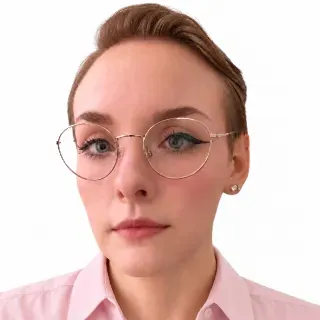
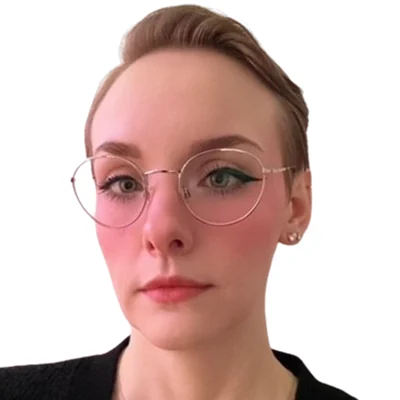
Team photos from nymbus-decks; no bonds in the Multi-Strategy approach copy [ci-logs]
- public/team: the 13 portraits shared with the nymbus-decks team seed, flattened on white, WebP,
  at most 400 px (Leana D'Imperio and Philippe Rivet are not in the decks seed: unchanged).
- /approach multi-strategy: lead "low correlation with stock markets in down months" (was "stocks
  and bonds"), diagram band "designed to offset part of losses" (was "bond losses"), EN and FR;
  unit test guards the Multi-Strategy copy against bonds; compliance-review row C5.

Claude-Session: https://claude.ai/code/session_01HkTsrCjFFbrE1zc4C2YzDT

diff --git a/src/components/site/pages/approach.copy.ts b/src/components/site/pages/approach.copy.ts
@@ -202,8 +202,8 @@ export const AP = {
     title: l("Several strategies,", "Plusieurs stratégies,"),
     accent: l("across asset classes", "dans plusieurs catégories d’actifs"),
     lead: l(
-      "A liquid alternative across asset classes, designed to have low correlation with stocks and bonds in down months.",
-      "Une solution alternative liquide, multi-actifs, conçue pour avoir une faible corrélation avec les actions et les obligations lors des mois de baisse.",
+      "A liquid alternative across asset classes, designed to have low correlation with stock markets in down months.",
+      "Une solution alternative liquide, multi-actifs, conçue pour avoir une faible corrélation avec les marchés boursiers lors des mois de baisse.",
     ),
     strategies: [
       l("Low volatility", "Faible volatilité"),
@@ -219,8 +219,8 @@ export const AP = {
       l("Commodities", "Matières premières"),
     ],
     overlay: l(
-      "Protective overlay · designed to offset part of bond losses",
-      "Superposition protectrice · conçue pour compenser une partie des pertes obligataires",
+      "Protective overlay · designed to offset part of losses",
+      "Superposition protectrice · conçue pour compenser une partie des pertes",
     ),
     strategiesK: l("Strategies", "Stratégies"),
     assetsK: l("Asset classes", "Catégories d’actifs"),

diff --git a/tests/unit/site/content-v3.test.ts b/tests/unit/site/content-v3.test.ts
@@ -184,12 +184,16 @@ test("approach: risk-first and multi-strategy sections keep low correlation as a
   assert.ok(!/uncorrelated|non corrélé/i.test(JSON.stringify(AP)), "no 'uncorrelated' as a fact");
   assert.match(
     AP.multi.lead.en,
-    /^A liquid alternative across asset classes, designed to have low correlation with stocks and bonds in down months\.$/,
+    /^A liquid alternative across asset classes, designed to have low correlation with stock markets in down months\.$/,
   );
   assert.ok(AP.multi.note.en.endsWith(OVERLAY_ADDS));
   assert.ok(AP.multi.note.fr.endsWith(OVERLAY_ADDS_FR));
   assert.match(AP.multi.note.en, /^Illustration only/);
   assert.equal(AP.multi.strategies.length, 4);
+  // owner 2026-10-16: the Multi-Strategy description (lead, diagram band, its "three ways" card) never mentions bonds
+  for (const part of [AP.multi.lead, AP.multi.overlay, AP.multi.offers[1].t, AP.multi.offers[1].d])
+    for (const lang of ["en", "fr"] as const)
+      assert.ok(!/bond|obligat/i.test(part[lang]), `multi-strategy copy mentions bonds: ${part[lang]}`);
 });
 
 test("solutions: three illustrative use cases; overlay ones carry the futures-exposure disclosure; no ranking claim in the copy", () => {

diff --git a/docs/compliance-review.md b/docs/compliance-review.md
@@ -502,6 +502,7 @@ Gabriel's requests of 2026-10-03. Rows replace earlier wording where they differ
 | C2 | **"Scientists, engineers and market veterans"** (EN) / « Des scientifiques, des développeurs et des vétérans des marchés » (FR: « ingénieur » is a protected title in Québec, so people are not called « ingénieurs »): home hero, about meta description, credentials band ("Scientists, engineers and market veterans" / « Scientifiques, développeurs et vétérans des marchés »), about intro, approach team section, careers line, and the **Science at scale band** (title + third card "Market veterans — Decades in fixed income and derivatives." / « Vétérans des marchés — Des décennies en revenu fixe et en dérivés. »; second card FR « Développeurs »). The band's animation and engine are unchanged; its fingerprint test notes "copy changed at Gabriel's request 2026-10-03". | Home, /team, /approach | EN "engineers" is approved by Gabriel; FR « développeurs ». |
 | C3 | **Tobacco-Free Finance Pledge**, worded as a firm-level signature (date unchanged, 2024): "A firm-level signature. The pledge, an initiative of Tobacco Free Portfolios hosted with UNEP FI, encourages signatories to consider tobacco-free policies across lending, insurance and investment." News body: "Nymbus signed the Tobacco-Free Finance Pledge, an initiative of Tobacco Free Portfolios hosted with UNEP FI. Signatories are encouraged to consider adopting tobacco-free finance policies across lending, insurance and investment." No firm-wide portfolio exclusion is claimed; ESG exclusions stay attributed to the Sustainable Enhanced Bonds Fund. No logo. **Source**: Ontario Teachers' Pension Plan, "Global leaders launch Tobacco-Free Finance Pledge" (2018), https://www.otpp.com/en-ca/about-us/news-and-insights/2018/global-leaders-launch-tobacco-free-finance-pledge/ | /sustainability, news | Resolves R1's open question as worded. |
 | C4 | **"Liquid alternative" approved for Multi-Strategy** (Gabriel, 2026-10-03; supersedes R4): approach lead "A liquid alternative across asset classes, designed to have low correlation with stocks and bonds in down months"; "Three ways" card "A liquid alternative, Alternative Multi-Strategy category" / « catégorie Multistratégies alternatives »; Multi-Strategy fund summary "A liquid alternative fund of systematic strategies…" and feature lead "Alternative Multi-Strategy category: distinct roles, diversified sources of return"; solutions "Liquid alternatives designed for low down-month correlation", advisors "A liquid alternative to diversify". **Inflation wording "over a full rate cycle" approved** (R3). | /approach, Multi-Strategy page, /solutions | Category name to match the fund's official CIFSC category. |
+| C5 | **No bonds in the Multi-Strategy description** (Gabriel, 2026-10-16): approach lead now "A liquid alternative across asset classes, designed to have low correlation with stock markets in down months" (FR « … avec les marchés boursiers lors des mois de baisse »); diagram band "Protective overlay · designed to offset part of losses" (FR « … une partie des pertes »). The overlay disclosure in the note is unchanged. | /approach | Is "stock markets" the comparison you want to state for the Multi-Strategy Fund? |
 | C5 | **Text cuts** (Gabriel: "a little bit too much text"): body copy trimmed on home, about, approach, solutions, strategies index and the fund-page marketing texts; every disclosure kept verbatim (overlay exposure, low-correlation caveat, distributions, hedging note, footnotes, ESG scope, illustration labels). Removed or shortened: two approach pipeline bullets (transaction-cost optimization, regime detection), the risk-section lead ("Ultra-micro analysis, at scale."), bond-process steps, use-case titles and steps, credentials note, strategies lead / dash note / CTA, fund feature leads and cards (Monthly Income, SEB metrics card, Multi-Strategy mean reversion, GMV stack card). Word budgets lowered (`word-budget.test.ts`), FUND_TEXTS get their own ceiling. | Public pages | No meaning change intended; the removed approach bullets are method details only. |
 | C6 | **Live decks.nymbus.ca team (2026-10-03, /api/team, fetched by the coordinator)**: newer portraits for Jennifer Pinkerton, Danira Csano, Jean-Philippe Lejeune, Gabriel Cefaloni, Fraser Coburn and Lyes Hammadi (re-encoded WebP 320 px, colour profile converted to sRGB and removed, no metadata). Two new people, both Operations / business development: **Léana D’Imperio**, Manager, Business Development (6 years; MBA; CIM — the live entry's typo "managert (im)" read as CIM / « gestionnaire de placements agréée (CIM) »; previous roles relationship manager, business markets; business development associate; financial advisor; LinkedIn) and **Philippe Rivet**, Manager, Business Development (10 years; BBA, international business & economics; previous roles global marketing manager, digital & channel; marketing operations manager; LinkedIn). Live title for Jean-Philippe Lejeune: "Quant Developer & Trader" (FR unchanged); Lyes Hammadi's « Ingénieur logiciel principal, placements » is kept as his own job title only. Fraser Coburn's and Danira Csano's decks LinkedIn links are still skipped (they point to other people). **Counts now: 20 people, 2 PhDs, 3 engineering & computer-science degrees, 10 master's and doctoral degrees, 7 CFA or CIM holders, 293+ years of combined experience.** Gabriel consented on 2026-10-03 to the portraits and LinkedIn links. | /team, /approach | Confirm the two newcomers' consent to their portrait and LinkedIn link. |
 
